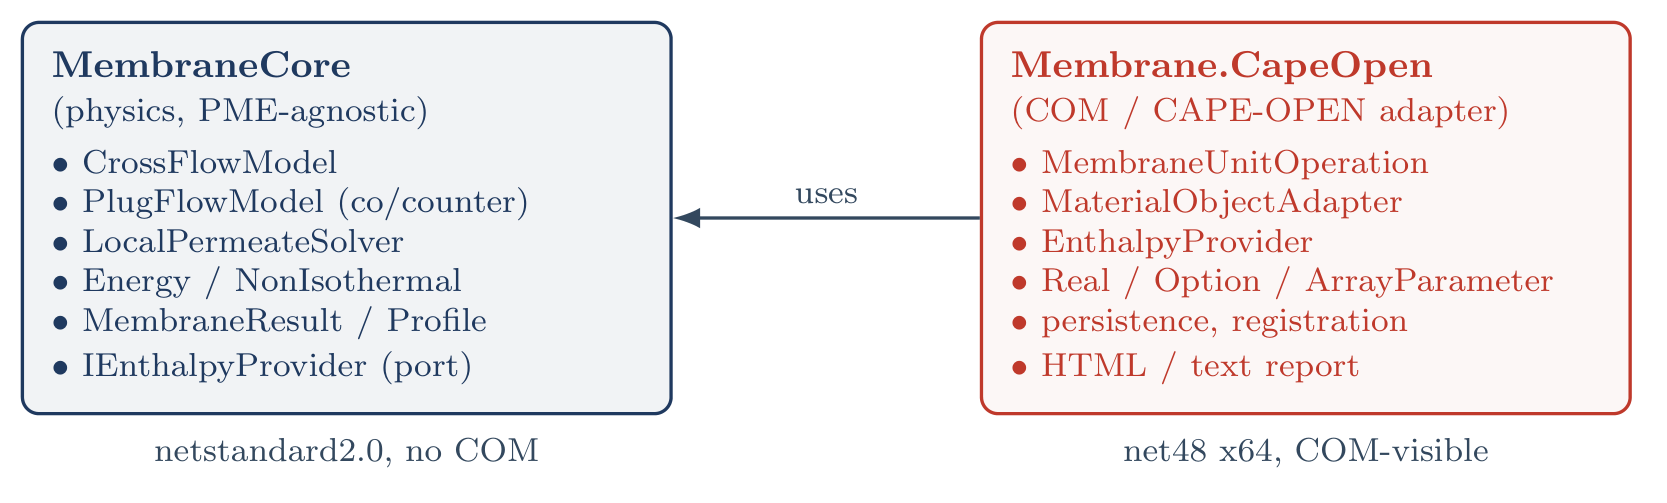
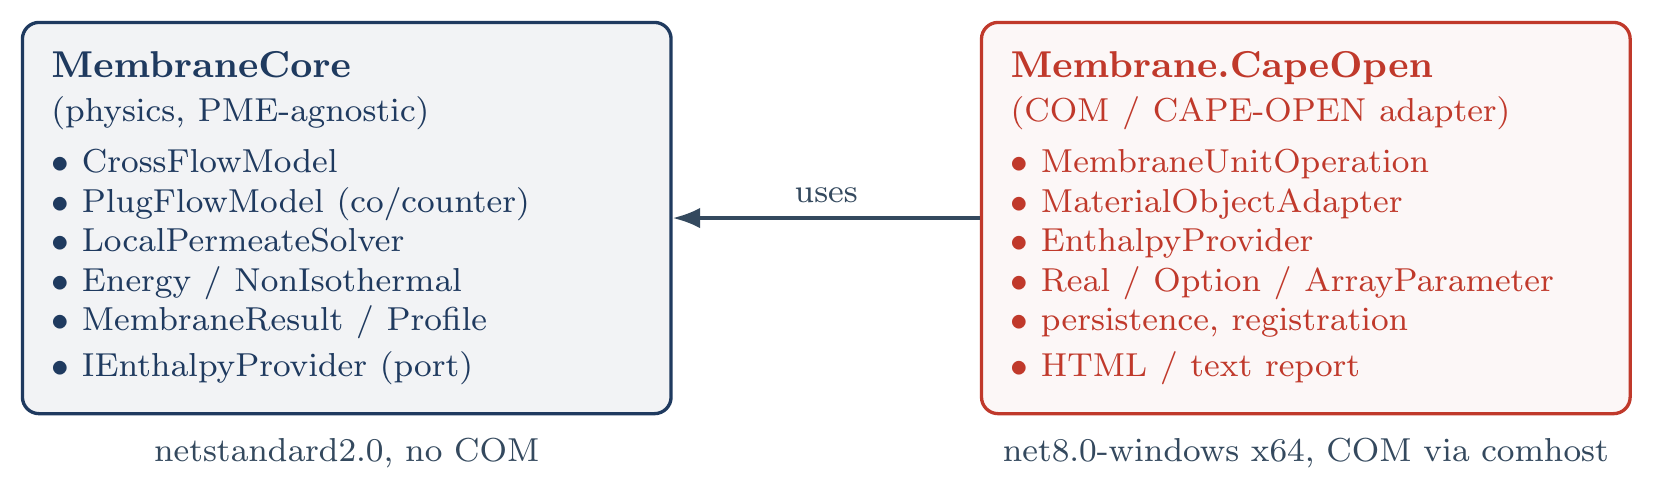
paper/techref: update architecture figure (Fig. 2) to net8/comhost
The two-assembly architecture diagram still labelled the adapter
"net48 x64, COM-visible". Update it to "net8.0-windows x64, COM via comhost"
to match the shipped build, and rebuild tikz_arch.pdf/.png from arch_body.tex.
Paper recompiles clean; the figure is used by both the paper (Fig. 2) and the
techref architecture page.

diff --git a/docs/techref/figures/tikz/arch_body.tex b/docs/techref/figures/tikz/arch_body.tex
@@ -21,5 +21,5 @@
      $\bullet$ HTML / text report};
   \draw[->, thick, docgrey] (ad) -- (core) node[midway, above, font=\footnotesize] {uses};
   \node[font=\footnotesize, docgrey, below=2pt of core] {netstandard2.0, no COM};
-  \node[font=\footnotesize, docgrey, below=2pt of ad] {net48 x64, COM-visible};
+  \node[font=\footnotesize, docgrey, below=2pt of ad] {net8.0-windows x64, COM via comhost};
 \end{tikzpicture}
